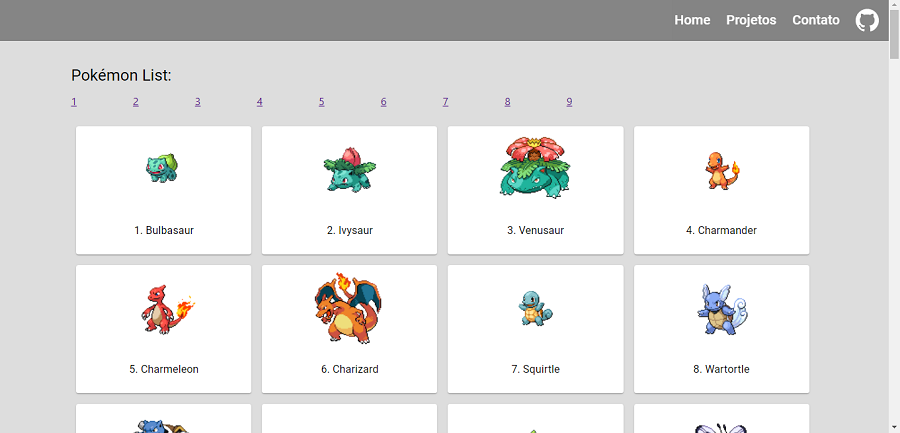
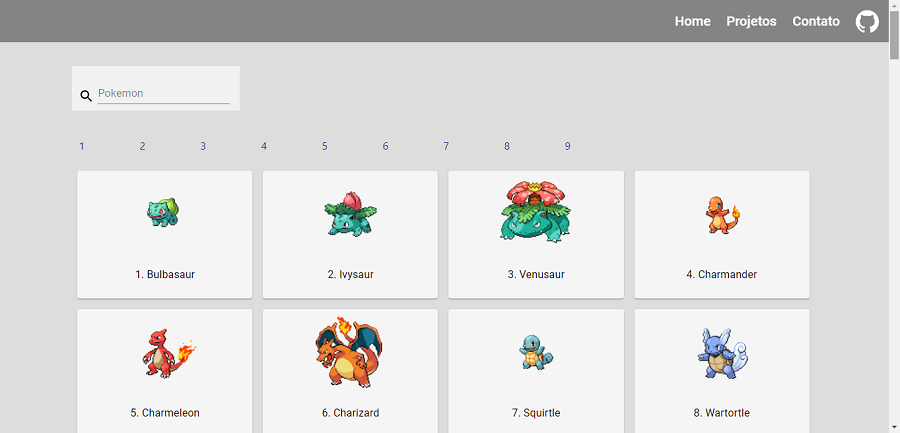
pesquisa pokemon

diff --git a/src/pages/Pokedex.js b/src/pages/Pokedex.js
@@ -1,61 +1,90 @@
 import React, { useState, useEffect } from 'react'
 import Header from '../components/Header'
 import PokeCard from '../components/PokeCard'
-import { Grid, Typography, CircularProgress } from '@material-ui/core'
-import { makeStyles } from '@material-ui/core/styles'
+import { Grid, TextField, CircularProgress } from '@material-ui/core'
+import { makeStyles, fade } from '@material-ui/core/styles'
 import Pagination from '../components/Pagination'
 import getPokemons from '../functions/getPokemons'
+import SearchIcon from '@material-ui/icons/Search'
 
-const useStyles = makeStyles({
-    PokedexContainer:{
-        backgroundColor:"#DDD",
-        paddingTop:"100px"
+const useStyles = makeStyles(theme =>({
+    PokedexContainer: {
+        backgroundColor: "#DDD",
+        paddingTop: "100px",
     },
-    cardsContainer:{
-        marginBottom:"100px"
-    }   
-    
-})
+    cardsContainer: {
+        marginBottom: "100px"
+    },
+    searchContainer:{
+        marginBottom:"30px",
+        display:"flex",
+        backgroundColor: fade(theme.palette.common.white, 0.60),
+        padding:"5px 10px 5px 10px"
+    },
+    searchIcon:{
+        alignSelf:"flex-end",
+        marginBottom:"5px"
+    },
+    searchText:{
+        width: "200px",
+        margin: "5px"
+    }
+
+}))
 
 function Pokedex() {
     const classes = useStyles();
-    const [pokemonData, setPokemonData] = useState({});
-        
+    const [pokemonData, setPokemonData] = useState(undefined);
+    const [filter, setFilter] = useState("")
 
     useEffect(() => {
-       getPokemons(100, 0, 1, setPokemonData)
+        getPokemons(100, 0, 1, setPokemonData)
     }, [])
 
     const getPokemonCard = (pokemonId) => {
-        const {id, name, sprite} = pokemonData[pokemonId];
+        const { id, name, sprite } = pokemonData[pokemonId];
+        
         return (
             <Grid item xs={12} sm={6} md={3} key={pokemonId} >
                 <PokeCard id={id} nome={name} imagem={sprite} />
             </Grid>
         )
     }
-    
+
+    const handleSearchChange = (e) =>{
+        setFilter(e.target.value);
+    }
+
 
     return (
         <>
             <Header />
+
             <Grid container xs={12} direction="column" alignItems="center" className={classes.PokedexContainer}>
                 <Grid item container xs={10}>
-                    <Typography variant="h5">
-                        Pokémon List:
-                    </Typography>
+                    <div className={classes.searchContainer}>
+                        <SearchIcon className={classes.searchIcon}/>
+                        <TextField 
+                        className={classes.searchText}
+                        label="Pokemon"
+                        variant="standard"
+                        color="secondary"
+                        onChange={handleSearchChange}
+                        />
+                    </div>
                 </Grid>
-                {pokemonData ? (
+                {pokemonData != undefined ? (
                     <>
-                    <Grid item container xs={10} spacing={2} className={classes.cardsContainer}>
-                    <Pagination setPokemon={setPokemonData}  />
-                        {Object.keys(pokemonData).map(
-                            pokemonId => getPokemonCard(pokemonId)
-                        )}
-                        
-                    </Grid>
-                   
-                </>
+                        <Grid item container xs={10} spacing={2} className={classes.cardsContainer}>
+                            <Pagination setPokemon={setPokemonData} />
+                            {Object.keys(pokemonData).map(pokemonId =>
+                                pokemonData[pokemonId].name.includes(filter) &&
+                                getPokemonCard(pokemonId)
+                            )}
+
+                        </Grid>
+
+                    </>
                 ) : (
                         <CircularProgress />
                     )}

diff --git a/src/components/Pagination.js b/src/components/Pagination.js
@@ -6,7 +6,10 @@ import { makeStyles } from '@material-ui/core/styles'
 
 const useStyles = makeStyles({
     pagination:{
-        margin:"20px auto"
+        margin:"20px 10px"
+    },
+    link:{
+        textDecoration:"none"
     }
 })
 
@@ -16,31 +19,31 @@ function Pagination({setPokemon}) {
     return (
       <Grid container className={classes.pagination}>
           <Grid item xs={1}>
-              <Link to='/pokedex' onClick={()=>getPokemons(100, 0, 1, setPokemon)}>1</Link>
+              <Link to='/pokedex' className={classes.link}  onClick={()=>getPokemons(100, 0, 1, setPokemon)}>1</Link>
           </Grid>
           <Grid item xs={1}>
-              <Link to='/pokedex' onClick={()=>getPokemons(100, 100, 101, setPokemon)}>2</Link>
+              <Link to='/pokedex' className={classes.link} onClick={()=>getPokemons(100, 100, 101, setPokemon)}>2</Link>
           </Grid>
           <Grid item xs={1}>
-              <Link to='/pokedex' onClick={()=>getPokemons(100, 200, 201, setPokemon)}>3</Link>
+              <Link to='/pokedex' className={classes.link} onClick={()=>getPokemons(100, 200, 201, setPokemon)}>3</Link>
           </Grid>
           <Grid item xs={1}>
-              <Link to='/pokedex' onClick={()=>getPokemons(100, 300, 301, setPokemon)}>4</Link>
+              <Link to='/pokedex' className={classes.link} onClick={()=>getPokemons(100, 300, 301, setPokemon)}>4</Link>
           </Grid>
           <Grid item xs={1}>
-              <Link to='/pokedex' onClick={()=>getPokemons(100, 400, 401, setPokemon)}>5</Link>
+              <Link to='/pokedex' className={classes.link} onClick={()=>getPokemons(100, 400, 401, setPokemon)}>5</Link>
           </Grid>
           <Grid item xs={1}>
-              <Link to='/pokedex' onClick={()=>getPokemons(100, 500, 501, setPokemon)}>6</Link>
+              <Link to='/pokedex' className={classes.link} onClick={()=>getPokemons(100, 500, 501, setPokemon)}>6</Link>
           </Grid>
           <Grid item xs={1}>
-              <Link to='/pokedex' onClick={()=>getPokemons(100, 600, 601, setPokemon)}>7</Link>
+              <Link to='/pokedex' className={classes.link} onClick={()=>getPokemons(100, 600, 601, setPokemon)}>7</Link>
           </Grid>
           <Grid item xs={1}>
-              <Link to='/pokedex' onClick={()=>getPokemons(100, 700, 701, setPokemon)}>8</Link>
+              <Link to='/pokedex' className={classes.link} onClick={()=>getPokemons(100, 700, 701, setPokemon)}>8</Link>
           </Grid>
           <Grid item xs={1}>
-              <Link to='/pokedex' onClick={()=>getPokemons(7, 800, 801, setPokemon)}>9</Link>
+              <Link to='/pokedex' className={classes.link} onClick={()=>getPokemons(7, 800, 801, setPokemon)}>9</Link>
           </Grid>
       </Grid>
     )

diff --git a/src/pages/Pokemon.js b/src/pages/Pokemon.js
@@ -1,8 +1,10 @@
 import React, { useEffect, useState } from 'react';
 import axios from 'axios';
-import { Grid, Typography } from '@material-ui/core';
+import { Grid, Typography, IconButton } from '@material-ui/core';
 import { makeStyles } from '@material-ui/core/styles'
 import Header from '../components/Header'
+import {Link} from 'react-router-dom';
+
 
 const useStyles = makeStyles({
     pokemonContainer: {
@@ -11,6 +13,9 @@ const useStyles = makeStyles({
     },
     conteudo: {
         margin: "20px auto",
+    },
+    botaoVoltar:{
+        alignSelf:"flex-start"
     }
 })
 
@@ -29,10 +34,8 @@ function Pokemon(props) {
         axios.get(`https://pokeapi.co/api/v2/pokemon/${id}`)
             .then((response) => {
                 const { data } = response
-                console.log(data)
                 setPokeData(data)
             })
-        // .catch((error)=> console.log("Erro: "+ error))
     }, [])
 
     return (
@@ -94,7 +97,11 @@ function Pokemon(props) {
                             return <Typography key={name}>{`${name}: ${base_stat}`} </Typography>
                         })}
                         </Typography>
-
+                        <IconButton component={Link} to="/pokedex" className={classes.botaoVoltar}>
+                            <Typography color="secondary" variant="h5">
+                                Voltar
+                            </Typography>
+                        </IconButton>
 
                     </Grid>
                 </>

diff --git a/src/components/PokeCard.js b/src/components/PokeCard.js
@@ -1,4 +1,4 @@
-import React from 'react'
+import React, {useState, useEffect} from 'react'
 import {Card, CardMedia, CardContent, Typography} from '@material-ui/core'
 import {makeStyles} from '@material-ui/core/styles'
 import {Link } from 'react-router-dom'
@@ -7,7 +7,8 @@ const useStyles = makeStyles({
     cardContainer:{
         '&:hover':{
                 animation:"$bounce 0.5s linear"
-            }        
+            },
+            backgroundColor:"#F5F5F5"
     },
     cardMedia:{
         margin:"auto" 
@@ -39,7 +40,7 @@ const firstLetterUpper = name => name.charAt(0).toUpperCase() + name.slice(1);
 
 function PokeCard({id, nome, imagem}) {
     const classes = useStyles()
-   
+
     return (
        <Card
        key={id}

diff --git a/src/functions/getPokemons.js b/src/functions/getPokemons.js
@@ -12,7 +12,7 @@ export default  function getPokemons (limit, offset, indexPoke, callback) {
             newPokemonData[index + indexPoke] = {
                 id: index + indexPoke,
                 name: pokemon.name,
-                sprite: `https://raw.githubusercontent.com/PokeAPI/sprites/master/sprites/pokemon/${index + indexPoke}.png`
+                sprite: `https://raw.githubusercontent.com/PokeAPI/sprites/master/sprites/pokemon/${index + indexPoke}.png`,
             }
         })
         callback(newPokemonData)

diff --git a/src/index.css b/src/index.css
@@ -1,3 +1,4 @@
+
 body {
   margin: 0;
   font-family: -apple-system, BlinkMacSystemFont, 'Segoe UI', 'Roboto', 'Oxygen',
@@ -5,6 +6,7 @@ body {
     sans-serif;
   -webkit-font-smoothing: antialiased;
   -moz-osx-font-smoothing: grayscale;
+  background-color: #dddddd;
 }
 
 code {

diff --git a/src/functions/types.js b/src/functions/types.js
@@ -1,0 +1,5 @@
+export const tipos = [
+    {"fire": "#F00"},
+    {"Water": "#00F"},
+    {"Grass": "#0F0"}
+]
